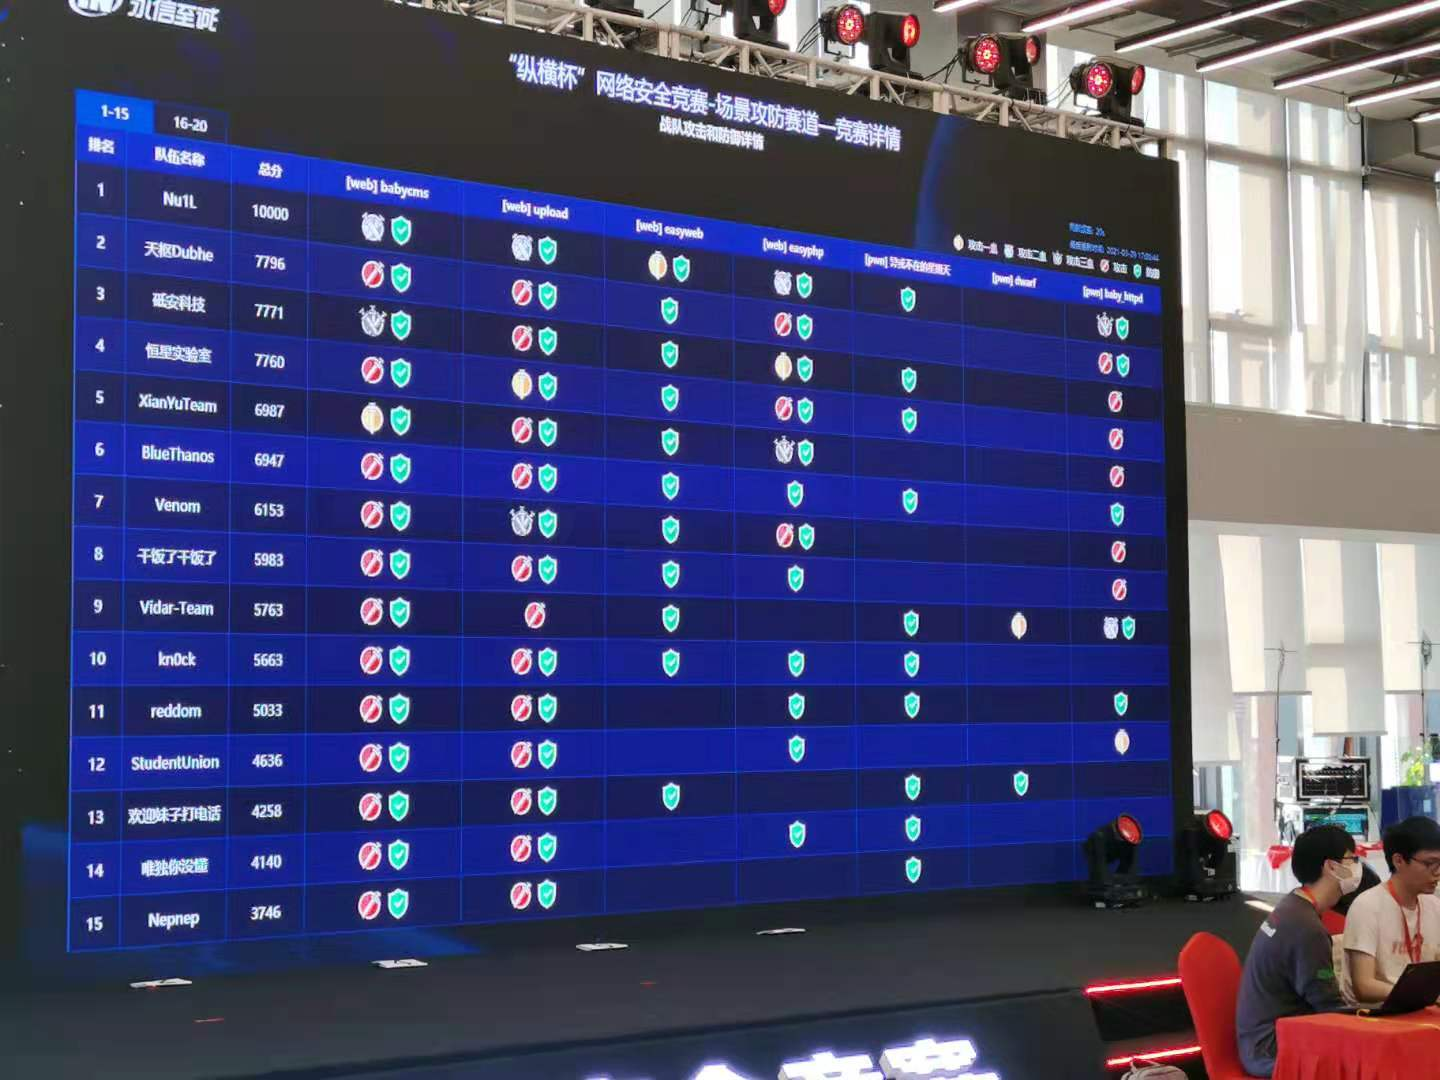
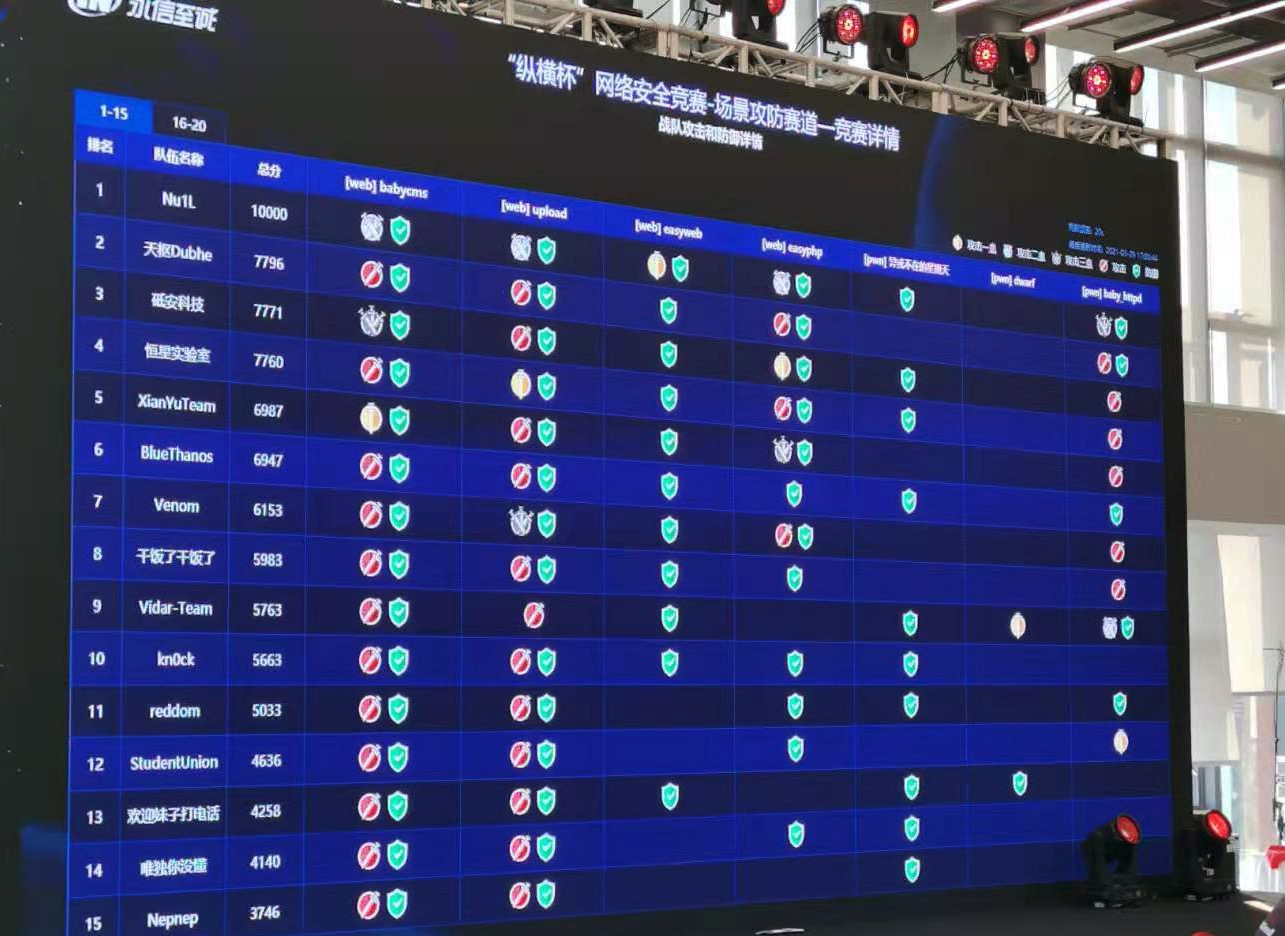
blog

diff --git a/_posts/2021-03-31-zongheng.md b/_posts/2021-03-31-zongheng.md
@@ -8,7 +8,11 @@ tags:
 
 > 三道Pwn，比赛时均没有写出利用，看出并修上两个题的洞，另外一个没看出洞，当然也没修上。
 
+最终排名：
+
 ![image](https://xuanxuanblingbling.github.io/assets/pic/zongheng/ad2.png)
+
+攻防详情：
 
 ![image](https://xuanxuanblingbling.github.io/assets/pic/zongheng/ad1.jpeg)
 
